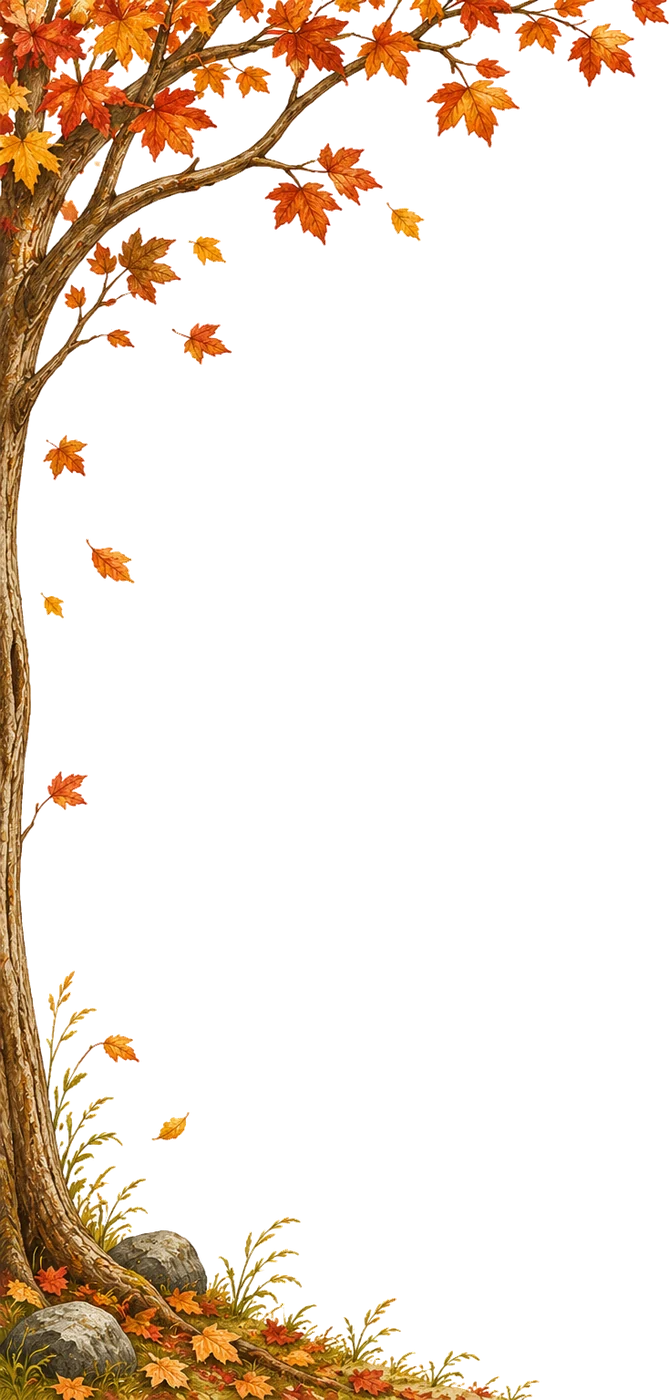
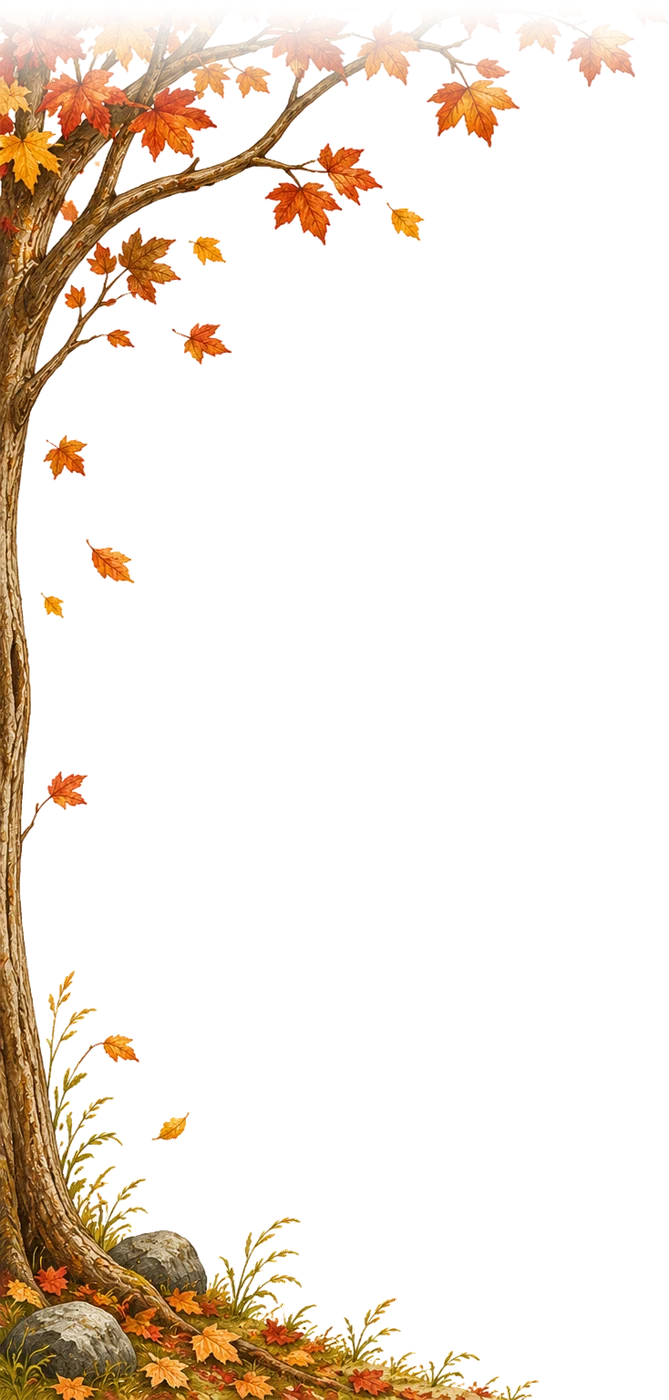
Season decor art: flush to screen edges, stretch config, sun top-right
Claude-Session: https://claude.ai/code/session_01K7sh3rNddvNuL8EnVj6etL

Changed region(s): [[0.0, 0.0, 1.0, 0.0921]]

diff --git a/tests/season-decor-art.test.ts b/tests/season-decor-art.test.ts
@@ -1,28 +1,59 @@
 import { test } from "node:test";
 import assert from "node:assert/strict";
-import { existsSync } from "node:fs";
-import { DECOR_ART, LAYER_Z } from "../src/config/season-decor";
+import { existsSync, readFileSync } from "node:fs";
+import { DECOR_ART, DECOR_OVERSCAN_PX, LAYER_Z } from "../src/config/season-decor";
 import { artClip, artLayerStyle, parseDecorMode } from "../src/lib/season-decor";
 
+const W = 390, H = 844, num = (v: unknown) => Number(v);
+function webpSize(file: string): [number, number] {   // minimal header parse (VP8X / VP8L / VP8)
+  const b = readFileSync(file), t = b.toString("ascii", 12, 16);
+  if (t === "VP8X") return [1 + b.readUIntLE(24, 3), 1 + b.readUIntLE(27, 3)];
+  if (t === "VP8L") { const v = b.readUInt32LE(21); return [(v & 0x3fff) + 1, ((v >> 14) & 0x3fff) + 1]; }
+  return [b.readUInt16LE(26) & 0x3fff, b.readUInt16LE(28) & 0x3fff];
+}
 for (const [season, layers] of Object.entries(DECOR_ART)) {
-  test(`${season} has layers with existing files and sane sizes`, () => {
+  test(`${season} has layers with existing files, true aspect and sane sizes`, () => {
     assert.ok(layers.length > 0);
     for (const l of layers) {
       assert.ok(existsSync(`public${l.src}`), l.src);
-      assert.ok(l.widthPct != null || l.heightPct != null);
-      assert.ok((l.widthPct ?? 0) <= 100 && (l.heightPct ?? 0) <= 100);   // screen-relative: never larger than the screen in its sized dimension
-      assert.ok(Math.abs(l.offsetXPct) <= 20 && Math.abs(l.offsetYPct) <= 30, "offsets stay sensible");
-      assert.ok(!(l.widthPct != null && l.heightPct != null), "one size dimension only (no stretching)");
+      const [w, h] = webpSize(`public${l.src}`);
+      assert.ok(Math.abs(l.aspect / (w / h) - 1) < 0.01, `${l.src} aspect ${l.aspect} vs file ${w / h}`);
+      assert.ok(l.widthMode === "screen" || l.widthPct != null || l.heightPct != null);
+      assert.ok((l.widthPct ?? 0) <= 100 && (l.heightPct ?? 0) <= 100);
       assert.ok(l.opacity > 0 && l.opacity <= 1);
+      if (!l.stretch) assert.ok(!(l.widthPct != null && l.heightPct != null) && l.widthMode !== "screen", "no stretching without stretch: true");
+      if (l.stretch) assert.ok((l.maxStretch ?? 0) > 0 && (l.maxStretch ?? 0) <= 0.4);
     }
   });
 }
-test("style per anchor: screen edges, no safe-area inset", () => {
-  const t = artLayerStyle(DECOR_ART.autumn[0]);
-  assert.equal(t.left, `${DECOR_ART.autumn[0].offsetXPct}%`);
-  assert.equal(t.bottom, "0%");
-  for (const layers of Object.values(DECOR_ART)) for (const l of layers) assert.ok(!JSON.stringify(artLayerStyle(l)).includes("env("));
-  assert.equal(artLayerStyle(DECOR_ART.winter[0]).top, `${DECOR_ART.winter[0].offsetYPct}%`);
+test("border sprites are flush with the real screen edges (offset 0, overscan, no env/safe area)", () => {
+  const edges: Record<string, string[]> = { spring_meadow: ["bottom", "left", "right"], summer_wave: ["bottom", "left", "right"], winter_clouds: ["top", "left", "right"], autumn_tree: ["bottom", "left"] };
+  for (const l of Object.values(DECOR_ART).flat()) {
+    const name = l.src.split("/").pop()!.replace(".webp", ""), st = artLayerStyle(l, W, H)!;
+    assert.ok(!JSON.stringify(st).includes("env("));
+    for (const side of edges[name] ?? []) {
+      assert.ok((l.flush ?? []).includes(side as never), `${name} flush ${side}`);
+      if (side === "right" && l.anchor === "bottom") continue;   // full-width layers: left + width cover the right edge, checked below
+      if (st[side] != null) assert.equal(num(st[side]), -DECOR_OVERSCAN_PX, `${name} ${side}`);
+    }
+    if (l.widthMode === "screen") { assert.equal(num(st.left), -DECOR_OVERSCAN_PX); assert.ok(num(st.left) + num(st.width) >= W + DECOR_OVERSCAN_PX); }
+  }
+});
+test("stretch stays within the limits for phones and wide screens", () => {
+  for (const [w, h] of [[390, 844], [360, 640], [430, 932], [820, 1180], [1280, 800]]) for (const l of Object.values(DECOR_ART).flat().filter((x) => x.stretch)) {
+    const st = artLayerStyle(l, w, h)!, r = num(st.width) / num(st.height) / l.aspect;
+    assert.ok(r >= 1 - l.maxStretch! - 1e-9 && r <= 1 + l.maxStretch! + 1e-9, `${l.src} ${w}x${h} ratio ${r}`);
+  }
+  const tree = artLayerStyle(DECOR_ART.autumn[0], W, H)!;   // not stretched: aspect kept
+  assert.ok(Math.abs(num(tree.width) / num(tree.height) / DECOR_ART.autumn[0].aspect - 1) < 1e-9);
+  assert.equal(num(tree.height), H * 0.6);
+});
+test("sun: top-right, about 30 % wide, fully inside the screen, clear of the icon row", () => {
+  const l = DECOR_ART.summer[0], st = artLayerStyle(l, W, H)!;
+  assert.equal(l.anchor, "top-right");
+  assert.ok(num(st.width) / W >= 0.28 && num(st.width) / W <= 0.32);
+  assert.ok(num(st.top) / H >= 0.08 && num(st.top) / H <= 0.1);
+  assert.ok(num(st.right) >= 0 && W - num(st.right) - num(st.width) > W * 0.5);   // inside the screen, right half
 });
 test("art clip: nothing cut at rest, only the border to a neighbour moves", () => {
   assert.deepEqual(artClip(3, 3 * 800, 800, 50, 900), { top: 0, bottom: 0 });

diff --git a/src/config/season-decor.ts b/src/config/season-decor.ts
@@ -42,16 +42,28 @@ export const LAYER_Z = { stripe: 0, decor: 5, figure: 10, products: 20, chrome: 
 // sprite's aspect). offsetXPct / offsetYPct move the sprite from its anchor, in % of the screen: positive = right / down for left- and top-anchored sprites,
 // for right- / bottom-anchored ones positive = further out (bleeds off that edge); negative = back inside.
 export type DecorAnchor = "top-left" | "top" | "top-right" | "left" | "right" | "bottom-left" | "bottom" | "bottom-right";
-export type DecorLayer = { src: string; anchor: DecorAnchor; widthPct?: number; heightPct?: number; offsetXPct: number; offsetYPct: number; opacity: number; zIndex: number };
+export type DecorSide = "top" | "bottom" | "left" | "right";
+/** One art layer. BORDER RULE (Prompt 84): sprites whose content runs up to an image border must coincide with the real screen edge on THAT side: list those sides in `flush`;
+ *  a flush side is placed `DECOR_OVERSCAN_PX` beyond the screen edge (no margin, no safe area, no rounding hairline), its offset is ignored. Free sides use offsetXPct / offsetYPct
+ *  (% of the screen; for right- / bottom-anchored sprites positive = further out). SIZE: widthMode "screen" = full screen width (+ overscan), "pct" = widthPct of the screen
+ *  width, "auto" = follows the height. Height = heightPct of the screen height, or (no heightPct) follows the width. `aspect` = natural width / height of the sprite file (a test checks it).
+ *  `stretch: true` allows non-uniform scaling when width and height are both given; the distortion is limited to +/- `maxStretch` (0.4 = 40 %) of the natural aspect, the height
+ *  is adjusted if the screen would push it beyond that. Without `stretch` the aspect is kept (one size dimension only). */
+export type DecorLayer = {
+  src: string; aspect: number; anchor: DecorAnchor; flush?: DecorSide[];
+  widthMode?: "screen" | "pct" | "auto"; widthPct?: number; heightPct?: number; stretch?: boolean; maxStretch?: number;
+  offsetXPct: number; offsetYPct: number; opacity: number; zIndex: number;
+};
+export const DECOR_OVERSCAN_PX = 1;
 export const DECOR_ART: Record<"spring" | "summer" | "autumn" | "winter", DecorLayer[]> = {
   summer: [
-    { src: "/season-decor/summer_sun.webp", anchor: "top-left", widthPct: 30, offsetXPct: -4, offsetYPct: 18, opacity: 1, zIndex: 2 },   // below the icon row, left edge slightly cropped
-    { src: "/season-decor/summer_wave.webp", anchor: "bottom-right", widthPct: 70, offsetXPct: 2, offsetYPct: 2, opacity: 1, zIndex: 1 },   // bleeds off right + bottom; left side fades out in the sprite
+    { src: "/season-decor/summer_sun.webp", aspect: 1028 / 1024, anchor: "top-right", widthMode: "pct", widthPct: 30, offsetXPct: 0, offsetYPct: 9, opacity: 1, zIndex: 2 },   // free-standing: fully visible, top edge at 9 % of the screen height, clear of the icon row (top-left)
+    { src: "/season-decor/summer_wave.webp", aspect: 1400 / 467, anchor: "bottom", flush: ["bottom", "left", "right"], widthMode: "screen", heightPct: 14, stretch: true, maxStretch: 0.4, offsetXPct: 0, offsetYPct: 0, opacity: 1, zIndex: 1 },
   ],
-  spring: [{ src: "/season-decor/spring_meadow.webp", anchor: "bottom", widthPct: 100, offsetXPct: 0, offsetYPct: 0, opacity: 1, zIndex: 1 }],   // full width, flush bottom (about 12% of the height on a phone)
-  autumn: [{ src: "/season-decor/autumn_tree.webp", anchor: "bottom-left", heightPct: 60, offsetXPct: 0, offsetYPct: 0, opacity: 1, zIndex: 1 }],
+  spring: [{ src: "/season-decor/spring_meadow.webp", aspect: 1400 / 341, anchor: "bottom", flush: ["bottom", "left", "right"], widthMode: "screen", heightPct: 10, stretch: true, maxStretch: 0.4, offsetXPct: 0, offsetYPct: 0, opacity: 1, zIndex: 1 }],
+  autumn: [{ src: "/season-decor/autumn_tree.webp", aspect: 669 / 1400, anchor: "bottom-left", flush: ["bottom", "left"], widthMode: "auto", heightPct: 60, offsetXPct: 0, offsetYPct: 0, opacity: 1, zIndex: 1 }],   // the sprite fades out at its top edge (build script), so there is no straight cut at 60 % height
   winter: [
-    { src: "/season-decor/winter_clouds.webp", anchor: "top", heightPct: 14, offsetXPct: 0, offsetYPct: -1, opacity: 1, zIndex: 1 },   // wider than the screen on a phone, so it bleeds off the sides and the top
-    { src: "/season-decor/winter_flakes.webp", anchor: "top-right", widthPct: 62, offsetXPct: 0, offsetYPct: 12, opacity: 1, zIndex: 2 },   // own, small scale: biggest flake about 6% of the screen width; right side keeps the icon row clear
+    { src: "/season-decor/winter_clouds.webp", aspect: 1024 / 221, anchor: "top", flush: ["top", "left", "right"], widthMode: "screen", heightPct: 14, stretch: true, maxStretch: 0.4, offsetXPct: 0, offsetYPct: 0, opacity: 1, zIndex: 1 },
+    { src: "/season-decor/winter_flakes.webp", aspect: 991 / 346, anchor: "top-right", widthMode: "pct", widthPct: 62, offsetXPct: 0, offsetYPct: 12, opacity: 1, zIndex: 2 },   // small flakes, right side keeps the icon row clear
   ],
 };

diff --git a/src/lib/season-decor.ts b/src/lib/season-decor.ts
@@ -1,5 +1,5 @@
 // Seasonal decoration, pure logic (no React): which season an outfit gets, which part of the screen belongs to which outfit, and the setting.
-import { SEASON_DECOR, type DecorAnchor, type DecorLayer } from "@/config/season-decor";
+import { SEASON_DECOR, DECOR_OVERSCAN_PX, type DecorAnchor, type DecorLayer } from "@/config/season-decor";
 import type { OutfitTags } from "@/outfits/tags";
 
 export type DecorSeason = "spring" | "summer" | "autumn" | "winter";
@@ -36,14 +36,23 @@ export const effectiveSeason = (link: string | null, localOn: boolean): boolean 
 export type DecorMode = "art" | "pixel";
 export const parseDecorMode = (link: string | null | undefined): DecorMode => (link === "pixel" ? "pixel" : "art");
 
-/** CSS box of one art layer inside the full-screen decor layer (top/bottom/left/right = the real screen edges, no safe-area inset). */
-export function artLayerStyle(l: DecorLayer): Record<string, string | number> {
-  const a: DecorAnchor = l.anchor, st: Record<string, string | number> = { position: "absolute", opacity: l.opacity, zIndex: l.zIndex, maxWidth: "none" };
-  if (l.widthPct != null) { st.width = `${l.widthPct}%`; st.height = "auto"; } else { st.height = `${l.heightPct ?? 0}%`; st.width = "auto"; }
-  const top = a.startsWith("top"), bottom = a.startsWith("bottom"), left = a.endsWith("left") || a === "left", right = a.endsWith("right") || a === "right";
-  const ox = `${left ? l.offsetXPct : right ? -l.offsetXPct : l.offsetXPct}%`, oy = `${top ? l.offsetYPct : -l.offsetYPct}%`;
-  if (top) st.top = oy; else if (bottom) st.bottom = oy; else { st.top = "50%"; st.transform = "translateY(-50%)"; }
-  if (left) st.left = ox; else if (right) st.right = ox; else { st.left = "50%"; st.transform = `${st.transform ?? ""} translateX(-50%)`.trim(); }
+/** Pixel box of one art layer inside the full-screen decor layer of W x H px (the real screen edges). Flush sides sit DECOR_OVERSCAN_PX beyond the edge, no safe area.
+ *  Stretched layers keep their distortion within +/- maxStretch of the natural aspect (the height gives way). null = layer not measured yet. */
+export function artLayerStyle(l: DecorLayer, W: number, H: number): Record<string, string | number> | null {
+  if (!(W > 0 && H > 0)) return null;
+  const os = DECOR_OVERSCAN_PX, flush = l.flush ?? [], a = l.aspect;
+  let w: number, h: number;
+  if (l.widthMode === "screen") w = W + 2 * os; else if (l.widthPct != null) w = (W * l.widthPct) / 100; else w = ((H * (l.heightPct ?? 0)) / 100) * a;
+  h = l.heightPct != null ? (H * l.heightPct) / 100 : w / a;
+  if (l.stretch && l.heightPct != null) {
+    const m = l.maxStretch ?? 0.2, r = Math.min(1 + m, Math.max(1 - m, w / h / a));
+    h = w / (a * r);
+  }
+  const st: Record<string, string | number> = { position: "absolute", opacity: l.opacity, zIndex: l.zIndex, maxWidth: "none", width: w, height: h };
+  const an = l.anchor, top = an.startsWith("top"), bottom = an.startsWith("bottom"), left = an.endsWith("left") || an === "left", right = an.endsWith("right") || an === "right";
+  if (top) st.top = flush.includes("top") ? -os : (H * l.offsetYPct) / 100; else if (bottom) st.bottom = flush.includes("bottom") ? -os : -(H * l.offsetYPct) / 100; else { st.top = "50%"; st.transform = "translateY(-50%)"; }
+  if (left) st.left = flush.includes("left") ? -os : (W * l.offsetXPct) / 100; else if (right) st.right = flush.includes("right") ? -os : -(W * l.offsetXPct) / 100; else st.left = (W - w) / 2;
+  if (an === "bottom" || an === "top") st.left = flush.includes("left") && l.widthMode === "screen" ? -os : (W - w) / 2 + (W * l.offsetXPct) / 100;
   return st;
 }
 

diff --git a/src/components/SeasonDecor.tsx b/src/components/SeasonDecor.tsx
@@ -37,8 +37,8 @@ function Spots({ kind, width, height }: { kind: "autumn" | "winter"; width: numb
 
 /** painted illustrations (default): plain img layers, absolute inside the group, so no layout shift; all sprites are preloaded once. */
 const ART_SRCS = Object.values(DECOR_ART).flat().map((l) => l.src);
-function ArtLayers({ season }: { season: DecorSeason }) {
-  return <>{DECOR_ART[season].map((l) => /* eslint-disable-next-line @next/next/no-img-element */ <img key={l.src} src={l.src} alt="" decoding="async" draggable={false} style={artLayerStyle(l)} />)}</>;
+function ArtLayers({ season, w, h }: { season: DecorSeason; w: number; h: number }) {
+  return <>{DECOR_ART[season].map((l) => { const st = artLayerStyle(l, w, h); return st && /* eslint-disable-next-line @next/next/no-img-element */ <img key={l.src} src={l.src} alt="" decoding="async" draggable={false} style={{ ...st, objectFit: "fill" }} />; })}</>;
 }
 
 const Art = ({ season, width, height, sun, safeTop }: { season: DecorSeason; width: number; height: number; sun: boolean; safeTop: boolean }) =>
@@ -51,6 +51,7 @@ function SeasonDecor({ scroller, seasons, minis, className, style, sunFront, art
   const root = useRef<HTMLDivElement>(null), artBox = useRef<HTMLDivElement>(null), geo = useRef({ off: 0, layerH: 0 });
   const [win, setWin] = useState<number[]>([]);
   const [size, setSize] = useState({ w: 0, h: 0 });
+  const [artSize, setArtSize] = useState({ w: 0, h: 0 });
   const mode = useMemo(() => (typeof window === "undefined" ? "art" : parseDecorMode(new URLSearchParams(window.location.search).get("decor"))), []);
   useEffect(() => { if (mode === "art") ART_SRCS.forEach((src) => { const im = new Image(); im.decoding = "async"; im.src = src; }); }, [mode]);
   const winKey = useRef(""), count = Math.max(seasons?.length ?? 0, minis?.specs.length ?? 0);
@@ -72,6 +73,7 @@ function SeasonDecor({ scroller, seasons, minis, className, style, sunFront, art
   const measure = () => {   // where the scroller sits inside the full-screen art layer (only on resize, never per scroll frame)
     const sc = scroller.current, box = artBox.current; if (!sc || !box) return;
     geo.current = { off: sc.getBoundingClientRect().top - box.getBoundingClientRect().top, layerH: box.clientHeight };
+    setArtSize((p) => (p.w === box.clientWidth && p.h === box.clientHeight ? p : { w: box.clientWidth, h: box.clientHeight }));
   };
   const sync = () => {
     const sc = scroller.current; if (!sc) return;
@@ -104,7 +106,7 @@ function SeasonDecor({ scroller, seasons, minis, className, style, sunFront, art
   return (
     <div ref={root} aria-hidden style={{ display: "contents" }}>
       {mode === "art" && <div ref={artBox} className={`pointer-events-none overflow-hidden ${artClassName ?? className}`} style={{ ...(artClassName ? artStyle : style), zIndex: LAYER_Z.decor }}>
-        {shown.filter((i) => seasons?.[i]).map((i) => <div key={`${i}-${seasons?.[i]}`} data-i={i} className="sd-art absolute inset-0"><ArtLayers season={seasons![i]!} /></div>)}
+        {shown.filter((i) => seasons?.[i]).map((i) => <div key={`${i}-${seasons?.[i]}`} data-i={i} className="sd-art absolute inset-0"><ArtLayers season={seasons![i]!} w={artSize.w} h={artSize.h} /></div>)}
       </div>}
       <div className={`pointer-events-none ${className}`} style={{ ...style, zIndex: LAYER_Z.figure }}>{shown.map((i) => group(i, true))}</div>
     </div>

diff --git a/scripts/build-season-decor.py b/scripts/build-season-decor.py
@@ -5,7 +5,7 @@ Method: (1) flood-fill from the image borders over connected near-white pixels (
 pixels (foam, snowflake cores, daisies) are never touched because they are not connected to the border through near-white. (2) Alpha ramp on the
 pixels next to the background (BAND px): alpha = smoothstep((distance to white - RAMP_LO) / (RAMP_HI - RAMP_LO)). (3) Un-matte against white:
 c = (c - (1-a)*255) / a, clamped, so no white halo shows on coloured backgrounds. (4) trim, resize to MAX_EDGE, WebP with alpha.
-Post steps (Prompt 83): winter_clouds is split into winter_clouds (the big cloud shapes) and winter_flakes (everything small: snowflakes + dots) so the flakes get their
+Post steps (Prompt 83/84): winter_clouds is split into winter_clouds (the big cloud shapes) and winter_flakes (everything small: snowflakes + dots) so the flakes get their
 own, smaller scale in the config; summer_wave gets a soft alpha fade over its left WAVE_FADE share so it has no vertical left edge on screen."""
 import sys
 import numpy as np
@@ -14,7 +14,8 @@ from PIL import Image, ImageDraw, ImageFilter
 SRC = "docs/reference/season-decor-source"
 OUT = "public/season-decor"
 MAX_EDGE = 1400
-WAVE_FADE = 0.14      # share of the wave's width (from the left) that fades from transparent to opaque
+WAVE_FADE = 0.0       # (Prompt 84: no left fade any more, the wave is stretched to the full screen width and must touch the left edge)
+TREE_TOP_FADE = 0.10  # share of the tree's height (from the top) that fades out: the illustration is cut at its top edge, at 60% screen height that would be a straight line
 CLOUD_MIN_PX = 20000  # winter: connected shapes (after closing small gaps) with at least this many px are clouds, smaller ones flakes
 # tol: border flood-fill tolerance (max channel distance to white); lo/hi: alpha ramp on the edge band (distance to white); band: edge band width in px
 SPRITES = {
@@ -103,6 +104,12 @@ def fade_left(img, share):
     q[..., 3] *= ramp[None, :]
     return Image.fromarray(q.astype(np.uint8), "RGBA")
 
+def fade_top(img, share):
+    q = np.array(img).astype(float); h = q.shape[0]; k = max(1, int(h * share))
+    ramp = np.clip(np.arange(h) / k, 0, 1); ramp = ramp * ramp * (3 - 2 * ramp)
+    q[..., 3] *= ramp[:, None]
+    return Image.fromarray(q.astype(np.uint8), "RGBA")
+
 def main():
     prev = sys.argv[sys.argv.index("--preview") + 1] if "--preview" in sys.argv else None
     for name, o in SPRITES.items():
@@ -115,7 +122,8 @@ def main():
             s = MAX_EDGE / max(img.size); img = img.resize((round(img.width * s), round(img.height * s)), Image.LANCZOS)
         parts = {name: img}
         if name == "winter_clouds": parts = dict(zip(("winter_clouds", "winter_flakes"), split_winter(img)))
-        if name == "summer_wave": parts = {name: fade_left(img, WAVE_FADE)}
+        if name == "summer_wave" and WAVE_FADE > 0: parts = {name: fade_left(img, WAVE_FADE)}
+        if name == "autumn_tree": parts = {name: fade_top(img, TREE_TOP_FADE)}
         for nm, im in parts.items():
             im.save(f"{OUT}/{nm}.webp", "WEBP", quality=88, alpha_quality=95, method=6)
             print(nm, im.size)

diff --git a/CLAUDE.md b/CLAUDE.md
@@ -79,7 +79,7 @@ Scalability is very important to the user. Design for millions of products and u
 - **Wishlist background (display only):** Generate Outfits, My Outfits list + editor show `public/backgrounds/wishlist.webp` (900x1600, cover) via `WishlistBackground.tsx` (absolute layer outside the scroller, so it never moves); config `src/config/wishlist-background.ts` (`enabled`, `overlayOpacity` 0). Everything else stays white. User toggle "Drape Background" in Profile (`bg` in `drape.profile`, default on, device only, `useDrapeBackground` in `src/lib/client/background.ts`, `?bg=0|1` overrides); off = plain white.
 - **Season decoration (display only, pixel art since 2026-10-28):** one decoration per outfit by its dominant season = `dominantSeason(tags)` in `src/lib/season-decor.ts` (the season icon's `season_primary`; none for `all`, no tags or `season_fit` < `SEASON_DECOR.minFit` 0.4). Summer = 9x9 pixel corner sun at the right edge (`sun.topOffsetPx` 64 below the top of the outfit area, `sun.pxMult` 1), spring = flat pixel meadow strip + ~20 one-pixel blades above the tab bar (`--safe-b`), autumn pixel maple leaf (one colour `#c1352a`, `leaves.scale` 1) / winter snowflake (`#9db4c8`, `snow.scale` 0.6 = 60 % size) = 2 fixed places x up to `DECO_MAX_COUNT` (6; count 5) STATIC 16x16 pieces (no tilt, no animation), positions snapped to the deco pixel grid (`snap`). Deco pixel = `DECO_PX_MULT` (1.25) x figure pixel; bitmaps are 16x16 (since 2026-10-29), meadow blades vary in height/lean/tufts (`meadow.fringe/leanNone/bendRows/tuft` in `season-decor.ts`) (`MANNEQUIN.heightPx`/40). Bitmaps `SNOWFLAKE_BITMAP`/`LEAF_BITMAP`/`SUN_BITMAP` + meadow generator in `src/lib/season-decor-art.ts` (flat rects, crispEdges, memoized; shared run-merger `src/lib/pixel-art.ts`). Anchored to the SCREEN: `SeasonDecor.tsx` is one layer over the snap scroller holding the decorations of the nearest outfit + neighbours, each group clipped by `decorClip(index, scrollTop, h)` = `clip-path: inset` written straight to the DOM from the scroll event (no React render per frame; window re-render only at the halfway point). Behind the outfits, pointer-events none. Shown in the For You feed and Generate Outfits. Colours/positions in `src/config/season-decor.ts`. Profile toggle "Seasonal decoration" (`season` in `drape.profile`, default on, device only, `useSeasonDecor`), `?season=0|1` overrides. Tests `tests/season-decor.test.ts`.
 - **Stripe background (For You feed only, display only, Prompts 76-78):** "liquid glass": full-screen (edge to edge, behind status bar, header and bar; no panel, no rounded plate) colour-gradient layers (no blur/filter, crossfade on outfit change) + static crisp stripe overlay (`stops` list: 1 px bright edge, faint body, defined shade edge; fainter second layer period x1.37) + top-left specular highlight (`specular`). The stripes cover the WHOLE screen down to the physical bottom edge with the same flutes behind the glass bar (an earlier version ended them above the bar, which showed as a white band; the layer is `fixed inset-0`). BOTTOM CURVE: only the last `curve.zonePx` (26) px tilt the stripes gently left (up to `curve.maxDeg` 4, `curve.slices` rotated + shifted slices from `curveSlices`, static CSS transforms, no corner/gap). No quarter-circle bend. GREY GLASS PIECES: header and bottom bar (only while the switch is on, tab = For You, no onboarding; `glassUi` in `Feed.tsx`, `glass` prop of `BottomNav`) get `glassPieceStyle` (grey fill, 1 px light edge, specular, soft shadow, small radius, margin, refracted stripes = same layer boosted and shifted); tab text colours `glass.textOn/textOff`. Other tabs / switch off = unchanged white bar and header. Products, decor, figure, grass get no glass. CSS + static SVG only, no backdrop-filter/canvas. Colours = first `mq.col` of each product, top 2-3, neutrals dropped, normalised (`stripePalette`). Fixed layer `StripeBackground.tsx`, pointer-events none. Numbers in `src/config/stripe-bg.ts`. Profile selector "Stripe background" = Off | Colorful | Simple (`stripe` in `drape.profile`, `StripeMode`, default off, old boolean saves: true = colorful; `useStripeMode`), `?stripe=0|1|simple` overrides (1 = Colorful). Glass header + bar share `glassPieceStyle(mode)` and ONE translucency `glass.fillAlpha` (0.5). The old opaque-looking bar: the feed scroller ended above the bar, so nothing but the stripes was behind it; with the glass on the scroller now runs to the screen bottom (`100dvh`, sections keep height H, spacer = bar height; layout code measures `viewHeight(el)` = first section height, never `clientHeight`), so passing outfits show through the bar. SIMPLE (`STRIPE_BG.simple`): white -> light grey gradient plus organic grey blobs (`simple.grey`: count, darkCount, light/dark grey, alphas, softness, stretch, jitter, anchors; `greyBlobsCss(seed)` seeded by the outfit id, crossfades per outfit like Colorful), very faint grey-only stripes, lighter grey glass (`glassRgb`), no outfit colour, no product shadow or imprint (removed Prompt 80). CAPSULES (Prompt 80): header + tab bar glass are pills (`glass.capsule`, radius `CAPSULE_RADIUS` clamps to half the height; `glass.capsulePadPx` inner side padding), both modes. Tests `tests/stripe-bg.test.ts`.
-- **Season decor ART (Prompt 82/83, default):** illustrations replace the pixel decoration (`?decor=pixel` = old look, link only). Sprites `public/season-decor/{summer_sun,summer_wave,spring_meadow,autumn_tree,winter_clouds,winter_flakes}.webp`, config `DECOR_ART` in `src/config/season-decor.ts` (anchor, ONE of widthPct|heightPct of the SCREEN, offsets in % of the screen, opacity, zIndex). The art is a FULL-SCREEN layer (`fixed inset-0` in the feed like the stripe background, separate from the figure layer; not clipped by the content area, outfit area, safe margin or tab bar; only the real screen edge cuts). The old cuts came from one `clip-path` per outfit group (`decorClip`) in the content box; art now uses `artClip` (only the edge bordering a neighbouring outfit is cut during a swipe, nothing at rest). Sprites made by `scripts/build-season-decor.py` (Pillow+numpy; also splits winter clouds/flakes and fades the wave's left edge). LAYER ORDER = `LAYER_Z` (stripe 0 < decor 5 < figure 10 < products 20 < header/tab bar 30), tested in `tests/season-decor-art.test.ts`.
+- **Season decor ART (Prompt 82-84, default):** illustrations replace the pixel decoration (`?decor=pixel` = old look). Sprites `public/season-decor/*.webp` made by `scripts/build-season-decor.py` (tree fades out at its top, wave has no left fade). `DECOR_ART` in `src/config/season-decor.ts`; box math `artLayerStyle(layer, W, H)` in `src/lib/season-decor.ts`. FULL-SCREEN layer (`fixed inset-0`, like the stripe background; no safe margin, no content-area clip; `artClip` only cuts the edge next to a neighbouring outfit during a swipe). BORDER-FLUSH RULE: a sprite whose content runs to an image border lists that side in `flush`; that side sits `DECOR_OVERSCAN_PX` (1) beyond the real screen edge (offset ignored). Meadow (bottom/left/right, 10% height), wave (same, 14%), clouds (top/left/right, 14%) are `widthMode: "screen"` + `stretch: true`, distortion capped at `maxStretch` 0.4 (height gives way on wide screens); tree bottom-left 60% height, no stretch; sun top-right 30% width, top at 9%, free-standing. `aspect` per layer must match the file (test). LAYER ORDER = `LAYER_Z` (stripe 0 < decor 5 < figure 10 < products 20 < header/tab bar 30). Preview in the cloud: Playwright Chromium is installed (`NODE_PATH=$(npm root -g) node`, `npm ci` works), render a static HTML with the style numbers from `artLayerStyle` at 390x844 x2 and look at the PNG; the real feed needs the network.
 - **Outfit preview / mannequin (display only, pixel art since 2026-10-28; READY-MADE TEMPLATES since Prompt 74):** small flat pixel-art figure rendered INSIDE `SeasonDecor` (prop `minis`, same screen-anchored clip, in front of the meadow, behind products, pointer-events none; For You feed + Generate Outfits only). The shape is NOT computed per outfit: fixed 20-char-wide bitmaps in `src/config/pixel-figure.ts` (`TORSO_TEMPLATES` hoodie|jacket|tee, `HEAD_TEMPLATES` none|beanie|cap|hat, `FACE_TEMPLATES` sunglasses|glasses, each for men and women; legs `LEGS_OPS`, side pose + `BAG_OPS` stay ops), laid over the 20x40 grid in order legs, torso, head, face, bag (`figureGrid`, `src/lib/pixel-figure.ts`, markup memoized per templates + palette). The outfit only picks keys through plain lookup tables in the same config: `TORSO_BY_CATEGORY` (lower-case classification subcategory of the top, `mq.sub`, e.g. tshirt, hoodie, bomber jacket; unknown/missing = `TORSO_FALLBACK` hoodie; normalised by `torsoKey` in `src/lib/mannequin.ts`), `HEAD_BY_TYPE` (accessory type cap/beanie/hat), `FACE_BY_TYPE` (sunglasses/glasses), `BAG_TYPES`. First head / face / bag accessory wins. Women keep long hair + ponytail with no head item; with cap/beanie/hat only the ponytail end shows. Colours unchanged (`mannequinSpec` -> `FigureSpec`: top = B, bottom = P, shoes = W, head item = H/h, bag = X, zip z = shade of B, sunglasses/glasses constants in `PIXEL_COLORS`, `clampLight`, fallbacks). Other tunables: `PIXEL_FIGURE_POSE`, `DECO_PX_MULT`, `DECO_MAX_COUNT`, `PIXEL_GRID`. Size/position in `src/config/mannequin.ts` (height 92 px, centred over the Profile tab via `figureLeft`, `safeMarginPx` 8, feet `bottomGapPx` above the bar). Profile toggle "Outfit preview" (`mini`, default on, `useMiniPreview`), `?mini=0|1` overrides. PROMPT 75: torso templates also sweater / cardigan / sweatshirt (`TORSO_BY_CATEGORY` with real subcategories; unlisted category -> title words in `TORSO_KEYWORDS` via `keywordKey` in `mannequin.ts`, else hoodie); knee-length shorts legs (`SHORTS_OPS`, detected by `SHORTS_CATEGORIES` / `SHORTS_KEYWORDS`, `mq`-based, trousers otherwise); cap brim only on the LEFT (the old cap bitmap had an all-around brim; classifier also files caps as type "hat", so a "hat" with cap / beanie in its title is mapped by `HEAD_KEYWORDS`); torso pattern overlays (`PATTERN_BITMAPS` stripes|checks|dots|print, masked to torso B/b cells, colour keys Q/y = second colour `mq.col2` else darker/lighter main; chosen from `mq.pat` via `PATTERN_BY_ATTR`, else `PATTERN_KEYWORDS`). `mq` now also carries `col2` and `pat` (snapshot cards only). Tests `tests/mannequin.test.ts` (mapping tables, selection, template dimensions).
 - **Wishlist Products price:** `LikesView` shows current price + smaller grey struck-through `compare_at_cents` via `priceDisplay` (`src/lib/price-display.ts`); the old price only shows when on sale AND `useSaleMarker()` is on. Feed/Search/sheet untouched.
 - **Wishlist Products thumbnails + filter (display only):** thumbnails use the same cutout as the product sheet (`viewCard` auto, cutout on white, photo fallback). Chips All | Tops | Bottoms | Shoes | Accessories above the grid (`LikesView`, local state, reset when the tab is left): grouping by the card's `slot` (= feed_slot, follows category) in `LIKES_FILTER_GROUPS` (`src/config/likes-filter.ts`; top/full_body -> Tops, unmapped -> Accessories), logic `src/lib/likes-filter.ts`. Search has no liked list, so no filter there.

diff --git a/docs/prompt-log.md b/docs/prompt-log.md
@@ -85,3 +85,4 @@ One line per prompt: number, short content, commit on main if known. Sessions st
 - Prompt 81: Seasonal decoration replaced by painted sprites (public/season-decor), `?decor=pixel` = old pixel look; last commit 2e61eef
 - Prompt 82: Seasonal decoration = 5 new illustrations (keyed by border flood-fill), named layer z-order constants (decor behind figure and products); last commit 7b1694e
 - Prompt 83: Season art decoration is a full-screen layer (no clipping), new sizes/positions, winter flakes split into own sprite, wave left fade; last commit 2f4222a
+- Prompt 84: season decor art flush with the real screen edges (flush sides + overscan, stretch limits, sun top-right, tree top fade, wave left fade removed) — last commit on main: see git log.
